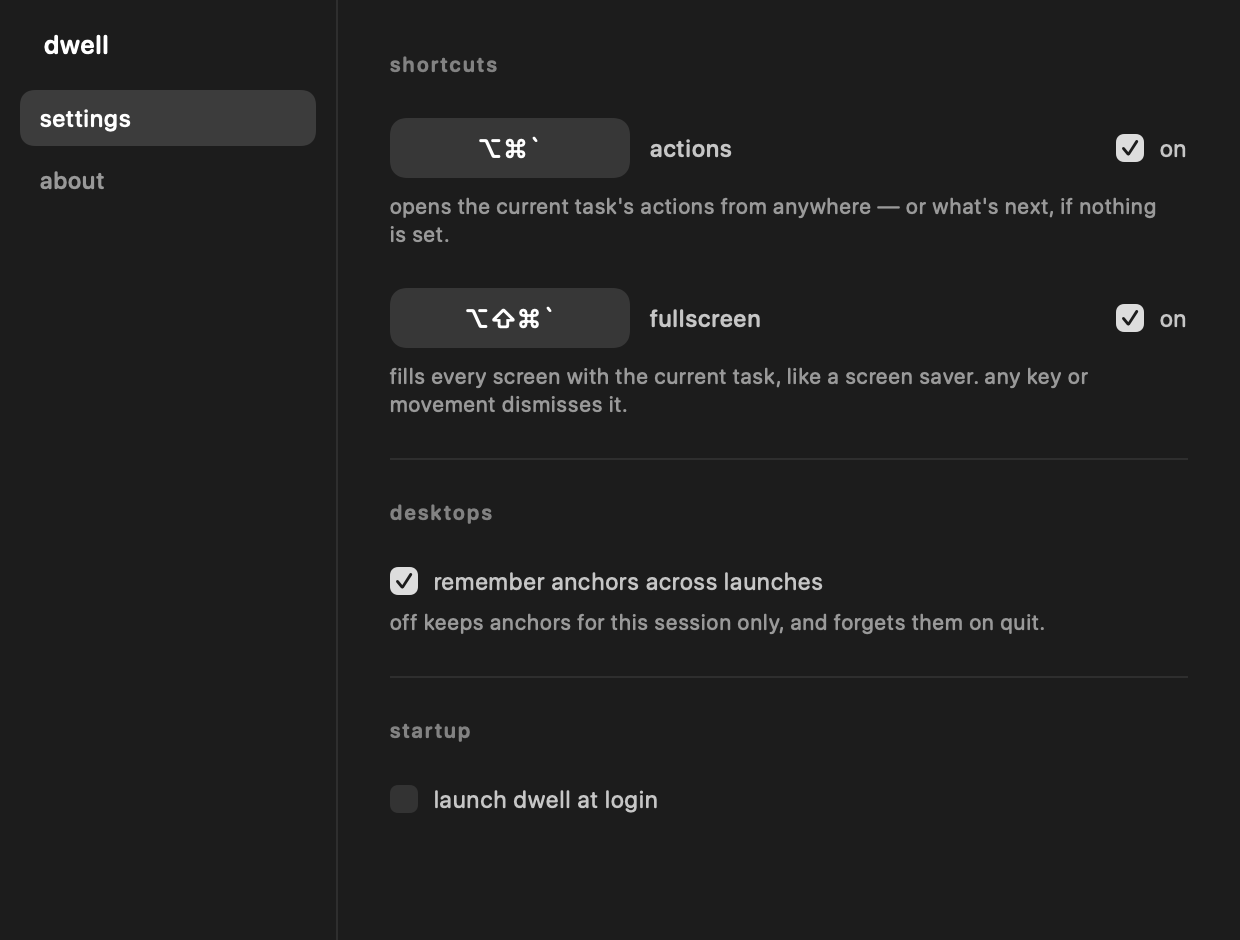
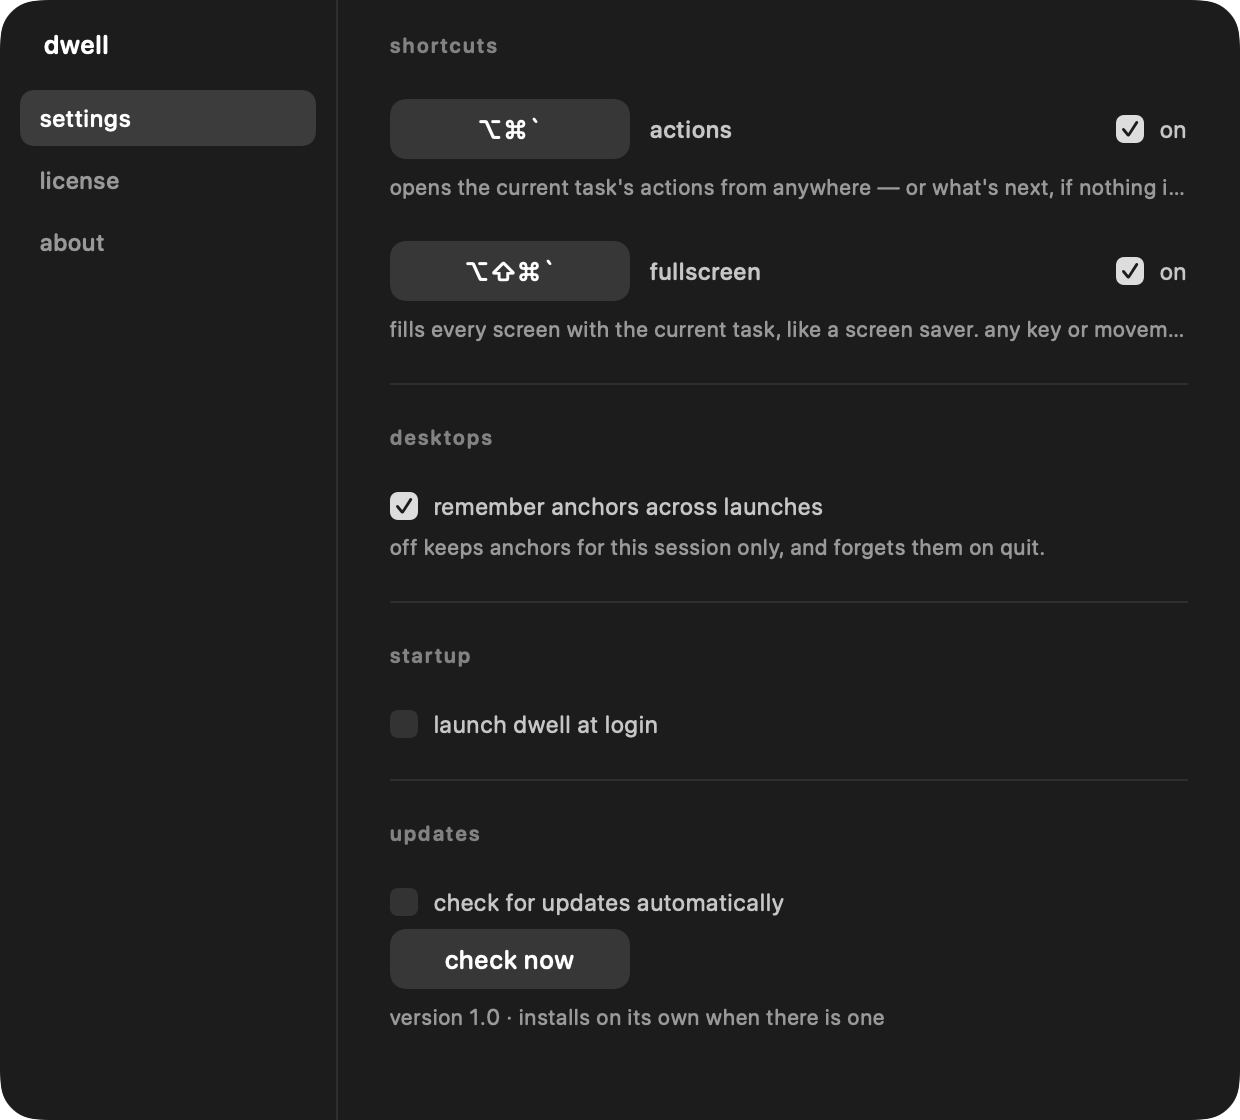
1.10

diff --git a/docs/icon.swift b/docs/icon.swift
@@ -1,0 +1,64 @@
+import AppKit
+
+// The app icon as trydwell.app draws it — the `.large-icon` in its download section, not the
+// favicon, which is a different (tighter) drawing. Every number here is that CSS:
+//
+//   .app-icon      background #1b1b1e; border-radius 23 of 79 (29%)
+//   .large-icon    79 × 79 with a 47 × 47 rosette — the flower is 59.5% of the square
+//   .rosette i     27.5% of the box, circles, at top/right/bottom/left with 36.25% offsets
+//   .rosette b     37.5% of the box, centred
+//   colours        centre #5188e9 · top #67bde2 · right #6e68e9 · bottom #a973e3 · left #525de0
+//
+// Drawn at 1024 on the macOS icon grid: the shape is 824 wide, centred, keeping the margin
+// Apple's own icons leave for their shadow. Rendered into an explicit bitmap so a Retina
+// display does not double it.
+
+let canvas = 1024
+let shape: CGFloat = 824
+let inset = (CGFloat(canvas) - shape) / 2
+
+func rgb(_ hex: UInt32, _ alpha: CGFloat = 1) -> NSColor {
+    NSColor(srgbRed: CGFloat((hex >> 16) & 0xff) / 255, green: CGFloat((hex >> 8) & 0xff) / 255,
+            blue: CGFloat(hex & 0xff) / 255, alpha: alpha)
+}
+
+let rep = NSBitmapImageRep(bitmapDataPlanes: nil, pixelsWide: canvas, pixelsHigh: canvas,
+                           bitsPerSample: 8, samplesPerPixel: 4, hasAlpha: true, isPlanar: false,
+                           colorSpaceName: .deviceRGB, bytesPerRow: 0, bitsPerPixel: 0)!
+NSGraphicsContext.saveGraphicsState()
+NSGraphicsContext.current = NSGraphicsContext(bitmapImageRep: rep)
+NSGraphicsContext.current?.imageInterpolation = .high
+
+// the square
+let square = NSRect(x: inset, y: inset, width: shape, height: shape)
+let radius = shape * 23 / 79
+let squarePath = NSBezierPath(roundedRect: square, xRadius: radius, yRadius: radius)
+rgb(0x1b1b1e).setFill()
+squarePath.fill()
+
+// The CSS also has an inset top highlight (`inset 0 1px 1px #ffffff50`). Left out on
+// purpose: at 1px on a 79px web icon it reads as depth, at 13px on a 1024 one it reads as a
+// white smear. The flat dark square is what the icon actually looks like.
+
+// the rosette, in a box 47/79 of the square, centred. CSS y runs down; AppKit's runs up.
+let box = shape * 47 / 79
+let origin = NSPoint(x: inset + (shape - box) / 2, y: inset + (shape - box) / 2)
+func dot(cx: CGFloat, cy: CGFloat, diameter: CGFloat, _ hex: UInt32) {
+    let d = diameter * box
+    let x = origin.x + cx * box - d / 2
+    let y = origin.y + (1 - cy) * box - d / 2
+    rgb(hex).setFill()
+    NSBezierPath(ovalIn: NSRect(x: x, y: y, width: d, height: d)).fill()
+}
+let petal: CGFloat = 0.275, centre: CGFloat = 0.375
+let edge = petal / 2                       // a petal's centre sits half a petal in from its edge
+dot(cx: 0.5,      cy: edge,     diameter: petal,  0x67bde2)   // top
+dot(cx: 1 - edge, cy: 0.5,      diameter: petal,  0x6e68e9)   // right
+dot(cx: 0.5,      cy: 1 - edge, diameter: petal,  0xa973e3)   // bottom
+dot(cx: edge,     cy: 0.5,      diameter: petal,  0x525de0)   // left
+dot(cx: 0.5,      cy: 0.5,      diameter: centre, 0x5188e9)   // centre
+
+NSGraphicsContext.restoreGraphicsState()
+let png = rep.representation(using: .png, properties: [:])!
+try! png.write(to: URL(fileURLWithPath: CommandLine.arguments.dropFirst().first ?? "dwell.png"))
+print("wrote \(rep.pixelsWide)×\(rep.pixelsHigh)")

diff --git a/README.md b/README.md
@@ -1,5 +1,5 @@
 <p align="center">
-  <img src="docs/rosette-field.png?v=1.09" width="760" alt="Thirty-two rosettes in a grid, eight list colours across, every one visibly different from the rest">
+  <img src="docs/rosette-field.png?v=1.10" width="760" alt="Thirty-two rosettes in a grid, eight list colours across, every one visibly different from the rest">
 </p>
 
 <h1 align="center">dwell</h1>
@@ -19,7 +19,7 @@ Requires **macOS 26 (Tahoe)**. Swift 6, SwiftUI and AppKit, no dependencies.
 ## every reminder gets a flower
 
 <p align="center">
-  <img src="docs/rosettes.png?v=1.09" width="840" alt="Twelve rosettes in a row, each five dots, all visibly different from one another">
+  <img src="docs/rosettes.png?v=1.10" width="840" alt="Twelve rosettes in a row, each five dots, all visibly different from one another">
 </p>
 
 Five dots. The **centre** is your list's colour — blue for work, orange for home, whatever
@@ -27,7 +27,7 @@ you set in Reminders. The **four petals** come from that reminder's own identifi
 tasks in the same list share a centre and differ everywhere else.
 
 <p align="center">
-  <img src="docs/pills.png?v=1.09" width="430" alt="Seven pills, each showing a task title beside its own five-dot flower">
+  <img src="docs/pills.png?v=1.10" width="430" alt="Seven pills, each showing a task title beside its own five-dot flower">
 </p>
 
 *finish the quarterly report* and *write up the standup notes* are both blue-centred because
@@ -45,7 +45,7 @@ stay within about a sixth of the colour wheel of the list's hue, so a reminder r
 ### it turns
 
 <p align="center">
-  <img src="docs/orbit.png?v=1.09" width="760" alt="Nine frames across one revolution, the petals holding formation as they circle the centre">
+  <img src="docs/orbit.png?v=1.10" width="760" alt="Nine frames across one revolution, the petals holding formation as they circle the centre">
 </p>
 
 The petals hold formation and circle the centre once every fourteen seconds. Nine frames
@@ -58,8 +58,8 @@ recognisable.
 ## the same flower, everywhere
 
 <p align="center">
-  <img src="docs/picker.png?v=1.09" width="430" alt="The what's next picker: three list sections, each row showing a reminder's flower beside its title and due date">
-  <img src="docs/detail.png?v=1.09" width="430" alt="The detail panel: a flower beside the task title, then list, due and priority as labelled fields">
+  <img src="docs/picker.png?v=1.10" width="430" alt="The what's next picker: three list sections, each row showing a reminder's flower beside its title and due date">
+  <img src="docs/detail.png?v=1.10" width="430" alt="The detail panel: a flower beside the task title, then list, due and priority as labelled fields">
 </p>
 
 Pick a new focus and the same flowers are in the list. Open the one you're on and it's there
@@ -76,8 +76,8 @@ The picker's flowers are still. One turning flower is an accent; twenty is noise
 ## finding and capturing
 
 <p align="center">
-  <img src="docs/search.png?v=1.09" width="430" alt="The picker in search mode, the header replaced by a query field, matching rows, and hints reading return done and esc clear">
-  <img src="docs/compose.png?v=1.09" width="430" alt="The compose panel: a title field, a when field reading friday 3pm, the parsed date echoed beneath, and a target list">
+  <img src="docs/search.png?v=1.10" width="430" alt="The picker in search mode, the header replaced by a query field, matching rows, and hints reading return done and esc clear">
+  <img src="docs/compose.png?v=1.10" width="430" alt="The compose panel: a title field, a when field reading friday 3pm, the parsed date echoed beneath, and a target list">
 </p>
 
 **`/`** turns the header into a filter and narrows the list as you type. The cursor sits on
@@ -117,7 +117,7 @@ nothing is ever due on two days at once, so it would always show an empty list. 
 enumerates here.
 
 <p align="center">
-  <img src="docs/filter-joined.png?v=1.09" width="430" alt="The picker filtering on 'tdy & tmrw', showing today's, overdue and tomorrow's reminders, with the parse echoed as 'today & tomorrow'">
+  <img src="docs/filter-joined.png?v=1.10" width="430" alt="The picker filtering on 'tdy & tmrw', showing today's, overdue and tomorrow's reminders, with the parse echoed as 'today & tomorrow'">
 </p>
 
 **`not`** (or `!`) takes things back out. `2pm not late` is everything due by 2pm minus the
@@ -128,7 +128,7 @@ late` is *(today ∪ tomorrow) − overdue*, and the two readings differ by ever
 due today. With nothing before it, `not late` simply reads as everything except.
 
 <p align="center">
-  <img src="docs/filter-not.png?v=1.09" width="430" alt="The picker filtering on 'tdy not late', showing today's two reminders with the overdue ones removed, echoed as 'today not overdue'">
+  <img src="docs/filter-not.png?v=1.10" width="430" alt="The picker filtering on 'tdy not late', showing today's two reminders with the overdue ones removed, echoed as 'today not overdue'">
 </p>
 
 Unlike the search, a filter **stays on**. It survives picking a focus, the pill collapsing and
@@ -145,7 +145,7 @@ nothing and colours the `zzz`, because a typo that silently changed the list wou
 reading a shorter one with no idea why.
 
 <p align="center">
-  <img src="docs/filter.png?v=1.09" width="430" alt="The picker filtering on 'work tdy', showing two work items due today, with the parse echoed as 'work · today'">
+  <img src="docs/filter.png?v=1.10" width="430" alt="The picker filtering on 'work tdy', showing two work items due today, with the parse echoed as 'work · today'">
 </p>
 
 **`r`** opens a
@@ -155,7 +155,7 @@ field echoes what it understood before you commit, and says so plainly when it u
 nothing.
 
 <p align="center">
-  <img src="docs/queue.png?v=1.09" width="430" alt="The compose panel with shift held: the add button replaced by a green queue button">
+  <img src="docs/queue.png?v=1.10" width="430" alt="The compose panel with shift held: the add button replaced by a green queue button">
 </p>
 
 **Hold shift** and **add** becomes **queue**, in green: the reminder is written but the focus
@@ -196,7 +196,7 @@ App Store as-is.
 ## finishing something
 
 <p align="center">
-  <img src="docs/encouragement.png?v=1.09" width="520" alt="A pill reading 'look at you go' with a colour gradient flowing through the letters">
+  <img src="docs/encouragement.png?v=1.10" width="520" alt="A pill reading 'look at you go' with a colour gradient flowing through the letters">
 </p>
 
 Press **done** and the reminder completes in Reminders on every device. Then its flower comes
@@ -206,7 +206,7 @@ notes*, *off your plate* — with those same colours flowing through the letters
 half seconds, then it asks what's next.
 
 <p align="center">
-  <img src="docs/term.png?v=1.09" width="430" alt="The detail panel with shift held: the done button replaced by a red term button">
+  <img src="docs/term.png?v=1.10" width="430" alt="The detail panel with shift held: the done button replaced by a red term button">
 </p>
 
 **Hold shift** and **done** becomes **term**, in red. That one completes the reminder and
@@ -226,7 +226,7 @@ pill is not a backlog.
 ## the whole screen, when you want it
 
 <p align="center">
-  <img src="docs/presentation.png?v=1.09" width="720" alt="The fullscreen view: one large rosette above the task title and the current time, centred on black">
+  <img src="docs/presentation.png?v=1.10" width="720" alt="The fullscreen view: one large rosette above the task title and the current time, centred on black">
 </p>
 
 **⌘⌥⇧`** takes the flower and the title to every display at once, like a screen saver,
@@ -247,8 +247,8 @@ from pressing the chord.
 ## settings
 
 <p align="center">
-  <img src="docs/settings.png?v=1.09" width="430" alt="The settings window: a sidebar listing settings and about, with two rebindable shortcut rows, desktop and startup controls">
-  <img src="docs/about.png?v=1.09" width="430" alt="The about pane: a large rosette, the name, version, author and links">
+  <img src="docs/settings.png?v=1.10" width="430" alt="The settings window: a sidebar listing settings, license and about, with two rebindable shortcut rows, desktop, startup and update controls">
+  <img src="docs/license.png?v=1.10" width="430" alt="The license pane: trial with two days left, a key field with an activate chip, and the buy link">
 </p>
 
 **⌘⌥`** opens the current task's actions from anywhere — or what's next, if nothing is
@@ -265,13 +265,22 @@ downloads it, verifies its signature, swaps itself out and relaunches — with n
 because a pill that runs until the Mac does would otherwise never get to install one. The
 same pane has *check now* and a switch to turn the automatic checks off.
 
+**Three days free, then $8.** dwell runs exactly as it does now for three days and never
+mentions it; *settings → license* keeps count. After that the pill says *trial's up* and
+clicking it opens that pane instead of the picker. One key covers three Macs, and
+*deactivate this mac* frees a slot when one is sold. The record lives in the Keychain, so
+deleting the app doesn't restart the clock; a clock rolled back reads as expired. dwell talks
+to trydwell.app for exactly three things — activating a key, checking it weekly, and freeing a
+slot — sending the key, a device id and the Mac's name. Never a reminder. If the service can't
+be reached, the last answer stands for thirty days.
+
 ## the rest of it
 
 The pill never moves: not when an app goes fullscreen, not across Spaces, not when another
 app is frontmost. It never takes focus and never intercepts a click outside its own silhouette.
 
 <p align="center">
-  <img src="docs/marquee.png?v=1.09" width="560" alt="A pill at its maximum width, the title cut off with a soft fade on the right before the anchor dot">
+  <img src="docs/marquee.png?v=1.10" width="560" alt="A pill at its maximum width, the title cut off with a soft fade on the right before the anchor dot">
 </p>
 
 **It is never wider than Alcove is with music playing** — the notch plus 37pt each side, so it
@@ -302,6 +311,16 @@ drops out again. No second click, ever.
 | either | `esc` steps back one thing at a time, and closes when there's nothing left |
 
 **Global**: ``⌘⌥` `` opens the actions · ``⌘⌥⇧` `` goes fullscreen
+
+## buy
+
+**Three days free, then $8, once.** The trial is the whole app and never mentions itself;
+after three days the pill says *trial's up* and waits for a key. One key covers three Macs,
+every future update is included, and there is a fourteen-day refund with no reason needed.
+
+**[buy dwell · $8](https://buy.stripe.com/aFafZi28U95b5J50Rx6c000)** — the key is on the
+page after checkout and in your email. [terms](docs/TERMS.md) · [privacy](docs/PRIVACY.md):
+what the license service keeps, and that nothing about your reminders ever leaves your Mac.
 
 ## install
 

diff --git a/docs/PRIVACY.md b/docs/PRIVACY.md
@@ -1,0 +1,48 @@
+# privacy
+
+The short version: **nothing about your reminders ever leaves your Mac.** dwell talks to one
+server, about one thing, and this page is the whole of it.
+
+## what the app sends
+
+dwell contacts `trydwell.app` in exactly three situations, and never otherwise:
+
+| when | what it sends |
+| --- | --- |
+| you activate a key | the key, a random device id dwell made up on first launch, and your Mac's name (the one in System Settings → General → About) |
+| once a week, while licensed | the key and the activation id |
+| you press *deactivate this mac* | the key and the activation id |
+
+That is the complete list. No reminder titles, notes, dates, lists or counts. No usage, no
+crash reports, no analytics, no identifier tied to your Apple ID. If the server cannot be
+reached, dwell carries on for thirty days on its last answer and asks again later.
+
+Updates are fetched from GitHub through Sparkle, which requests one small file describing the
+latest version, once a day, and the download when there is one. It sends no profile.
+
+## what the license service stores
+
+When you buy, Stripe handles the payment — your card details go to Stripe and never to us.
+Stripe tells the service that a purchase happened and the email it was made under, and the
+service keeps:
+
+- your **email**, so a key can be sent and a refund matched,
+- the **key** it issued, and the checkout it came from,
+- up to **three device records** — the device id, the Mac's name, and when it was activated —
+  which is how it counts to three.
+
+The record is kept for as long as the key is good, and a refund marks it revoked. It lives in
+an Upstash Redis database; the key email is sent through Resend. Both hold only what is listed
+here. Nothing is sold, shared, or used for anything but issuing and checking keys.
+
+## on your Mac
+
+The trial start, the device id and the key are stored in your login Keychain, so they survive
+reinstalls. Your current focus and desktop anchors are stored in dwell's own preferences.
+Reminders are read from and written to Apple's Reminders store through EventKit, with the
+permission macOS asks you for on first launch, and dwell keeps no copy of them.
+
+## questions, and deletion
+
+Write to [hello@trydwell.app](mailto:hello@trydwell.app). Deleting your record on request
+also revokes the key, so ask for that only when you mean it.

diff --git a/docs/TERMS.md b/docs/TERMS.md
@@ -1,0 +1,42 @@
+# terms
+
+dwell is sold by Mikey Boyd ([mikeyboyd.com](https://mikeyboyd.com)) at
+[trydwell.app](https://trydwell.app). Buying it means agreeing to this page, which is short on
+purpose.
+
+## the license
+
+- **One purchase, $8, once.** No subscription, and every future update is included.
+- **One person, up to three Macs.** The key activates on three; *deactivate this mac* in
+  settings frees a slot when one is sold or wiped. It is a license for you, not for a team —
+  a household sharing a key is fine, a company is not.
+- **Three days free first.** The trial is the full app. When it ends, the pill says so and
+  waits; nothing you set is lost, and a key picks up where you left off.
+- **Do not** redistribute the key, resell the app, or remove the license check. Refunded keys
+  stop working within a week.
+
+## refunds
+
+**Fourteen days, no reason needed.** Reply to your receipt or write to
+[hello@trydwell.app](mailto:hello@trydwell.app) with the email you bought under. The refund
+goes back to the card, and the key is revoked.
+
+## what dwell is, and isn't
+
+dwell reads and completes reminders through EventKit and shows one of them under the notch.
+To know which desktop you are on it uses a private macOS symbol that Apple does not document
+or promise to keep. **It is sold as is**: a future macOS may change what the notch is, what a
+desktop is, or what an app may draw over the menu bar, and dwell may stop working until it is
+updated, or for good. That is a risk you take with it, and it is not grounds for a refund past
+the fourteen days. It is the same risk every notch app carries, and it is stated here rather
+than discovered.
+
+dwell is not a backup of your reminders and never holds a copy of them. Completing a reminder
+in dwell completes it in Reminders, everywhere your account syncs.
+
+## the rest
+
+macOS 26 (Tahoe) or later, on a Mac with a notch or without one — the pill sits at the top of
+the screen either way. Nothing here limits any right you have under the law where you live.
+These terms may change with the app; the version that applies is the one in the release you
+are running.
